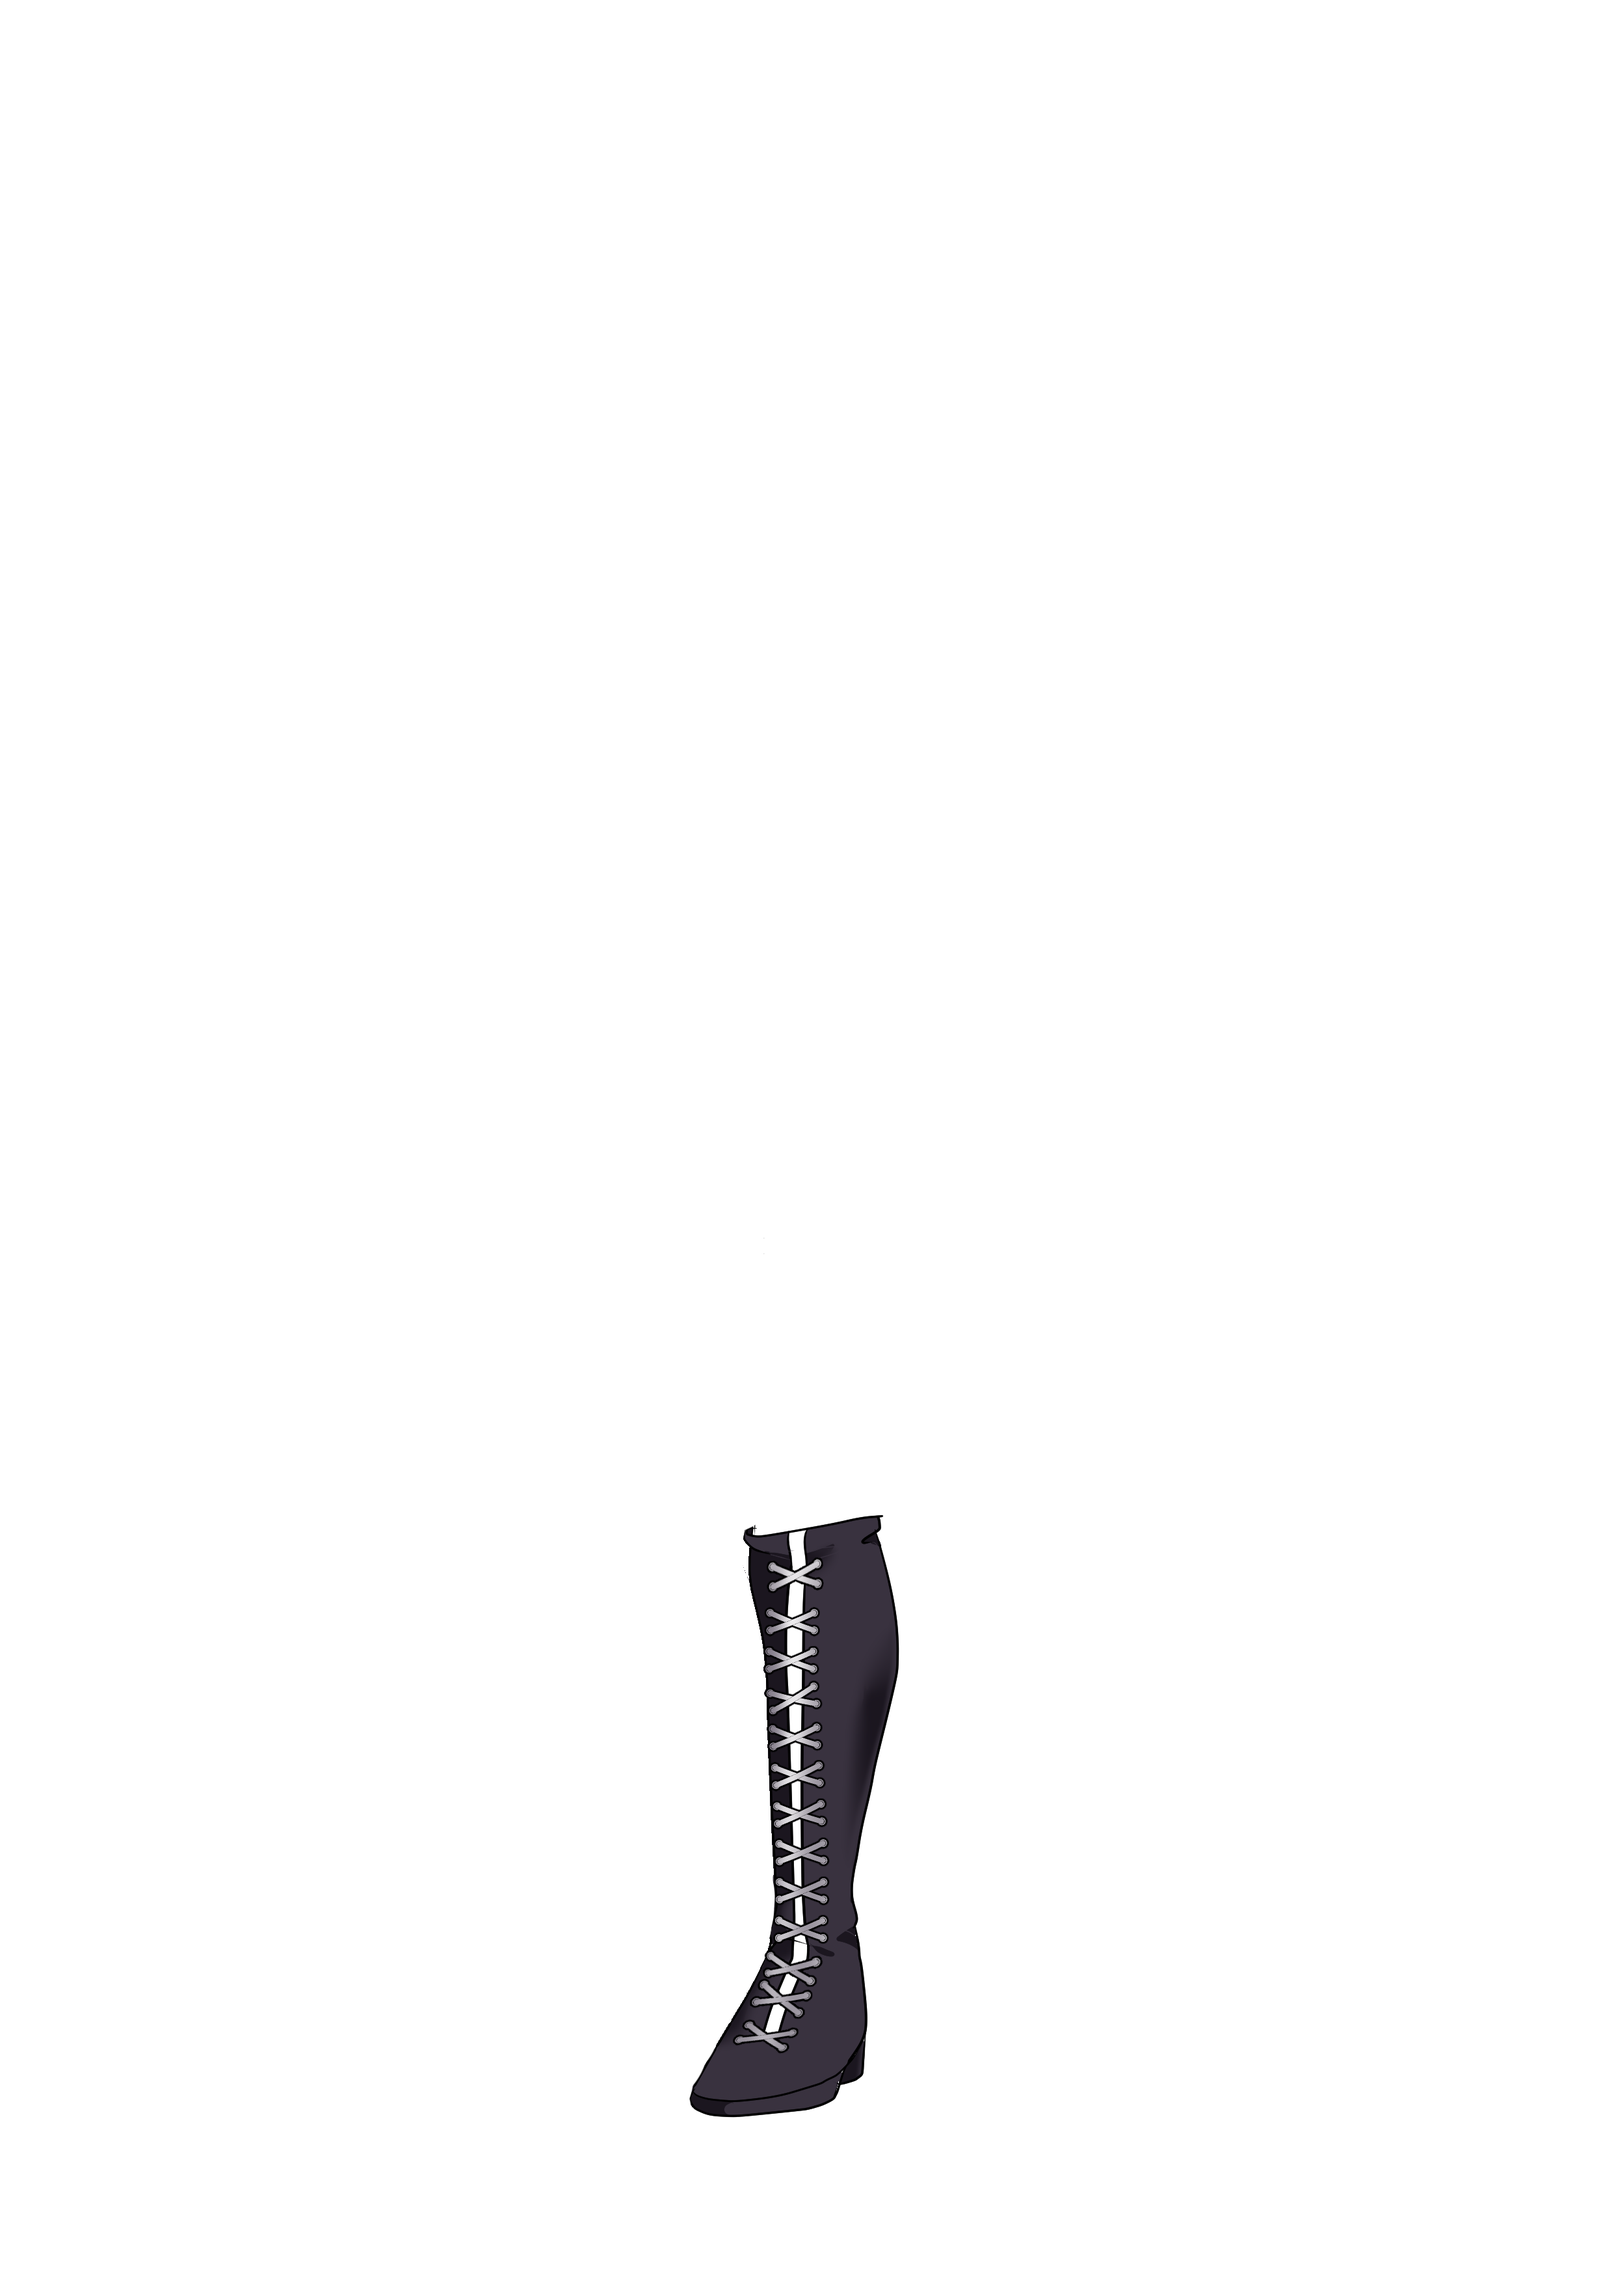
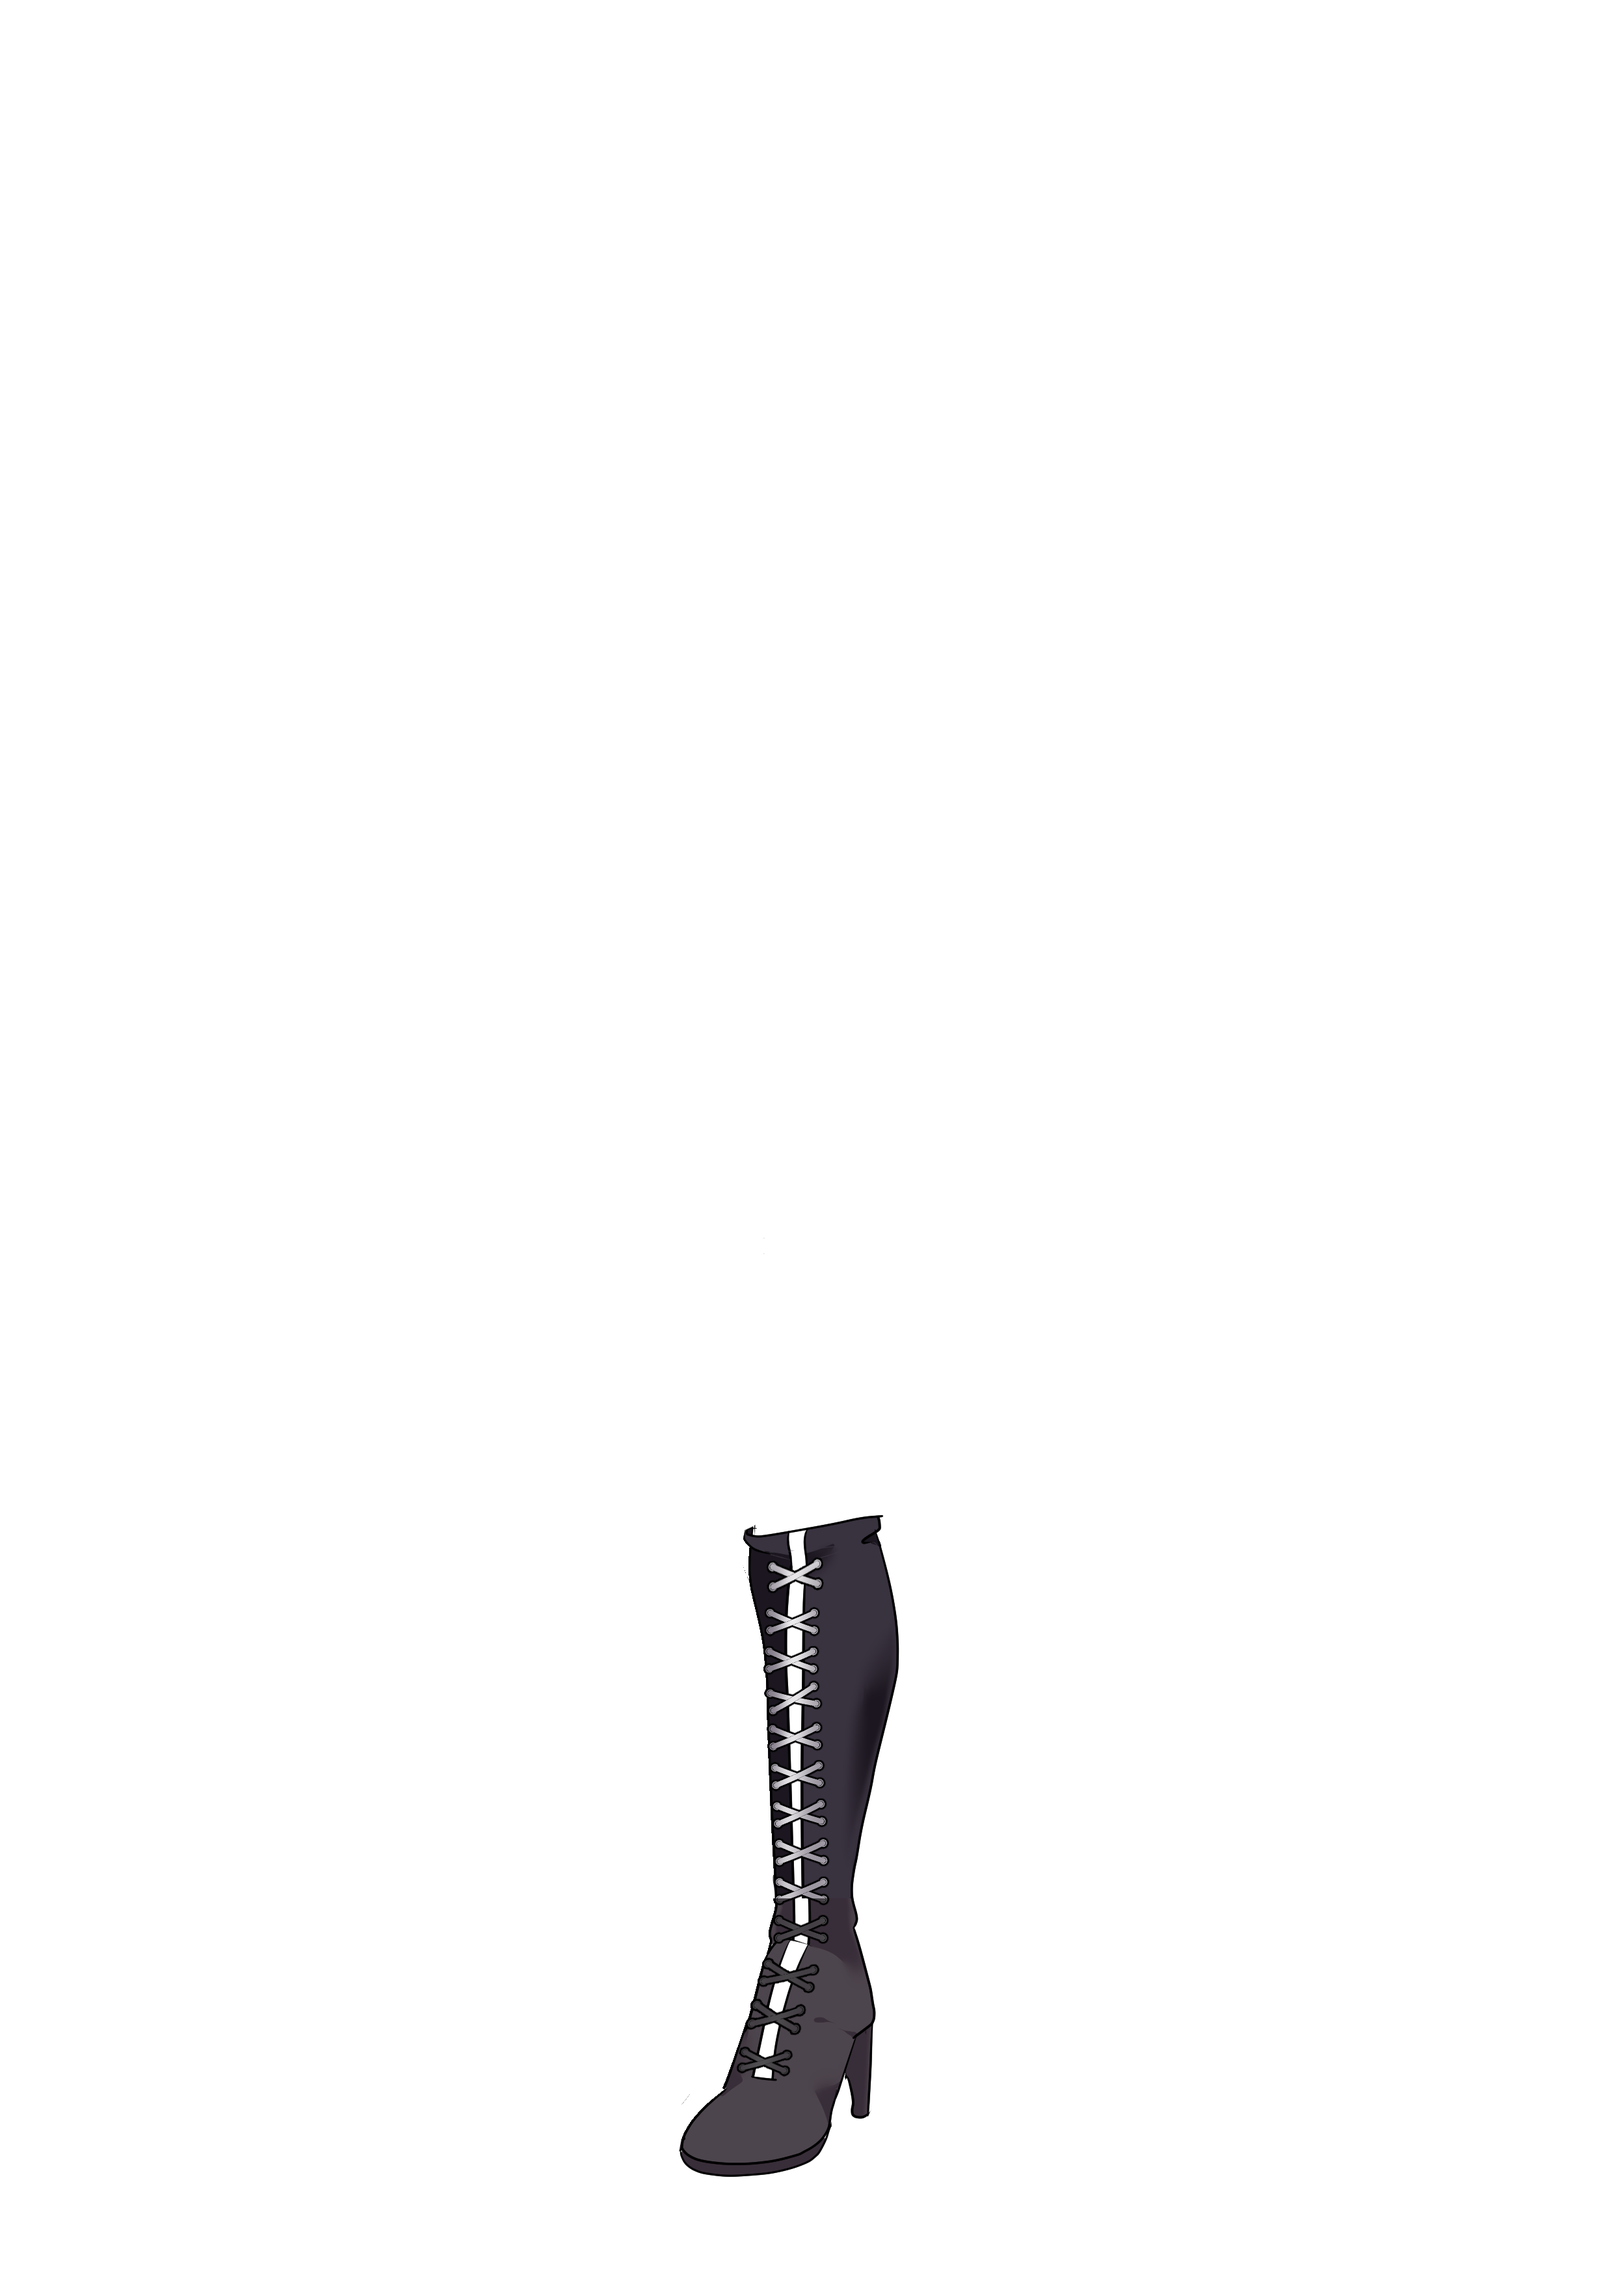
Data

Changed region(s): [[0.4036, 0.8389, 0.5589, 0.9632]]

diff --git a/Data/ModelList_Harness.ts b/Data/ModelList_Harness.ts
@@ -114,3 +114,107 @@ AddModel({
 		...GetModelLayers("HarnessStrap"),
 	])
 });
+
+
+
+AddModel({
+	Name: "FutureHarnessChest",
+	Folder: "FutureHarness",
+	TopLevel: false,
+	Parent: "FutureHarness",
+	Restraint: true,
+	Categories: ["Restraints", "Harness", "Leather"],
+	Layers: ToLayerMap([
+		{ Name: "StrapsChest", Layer: "BindChest", Pri: 60,
+			Invariant: true,
+			InheritColor: "Straps",
+		},
+		{ Name: "DisplayChest", Layer: "BindChest", Pri: 60.2,
+			Invariant: true,
+			InheritColor: "Display",
+			TieToLayer: "StrapsChest",
+			NoOverride: true,
+		},
+		{ Name: "MetalChest", Layer: "BindChest", Pri: 60.1,
+			Invariant: true,
+			InheritColor: "Metal",
+			TieToLayer: "StrapsChest",
+			NoOverride: true,
+		},
+	])
+});
+
+AddModel({
+	Name: "FutureHarnessMid",
+	Parent: "FutureHarness",
+	TopLevel: false,
+	Folder: "FutureHarness",
+	Restraint: true,
+	Categories: ["Restraints", "Harness", "Metal"],
+	Layers: ToLayerMap([
+		{ Name: "StrapsMid", Layer: "HarnessMid", Pri: 60,
+			Invariant: true,
+			InheritColor: "Straps",
+		},
+		{ Name: "DisplayMid", Layer: "HarnessMid", Pri: 60.2,
+			Invariant: true,
+			InheritColor: "Display",
+			TieToLayer: "StrapsMid",
+			NoOverride: true,
+		},
+		{ Name: "MetalMid", Layer: "HarnessMid", Pri: 60.1,
+			Invariant: true,
+			InheritColor: "Metal",
+			TieToLayer: "StrapsMid",
+			NoOverride: true,
+		},
+	])
+});
+
+AddModel({
+	Name: "FutureHarnessLower",
+	Parent: "FutureHarness",
+	TopLevel: false,
+	Folder: "FutureHarness",
+	Restraint: true,
+	Categories: ["Restraints", "Harness", "Metal"],
+	Layers: ToLayerMap([
+		{ Name: "StrapsLower", Layer: "HarnessMid", Pri: 59,
+		SwapLayerPose: {Kneel: "HarnessLower", KneelClosed: "HarnessLower"},
+			Invariant: true,
+			InheritColor: "Straps",
+		},
+		{ Name: "DisplayLower", Layer: "HarnessMid", Pri: 59.2,
+		SwapLayerPose: {Kneel: "HarnessLower", KneelClosed: "HarnessLower"},
+			Invariant: true,
+			InheritColor: "Display",
+			TieToLayer: "StrapsMid",
+			NoOverride: true,
+		},
+		{ Name: "MetalLower", Layer: "HarnessMid", Pri: 59.1,
+		SwapLayerPose: {Kneel: "HarnessLower", KneelClosed: "HarnessLower"},
+			Invariant: true,
+			InheritColor: "Metal",
+			TieToLayer: "StrapsMid",
+			NoOverride: true,
+		},
+	])
+});
+
+
+
+
+AddModel({
+	Name: "FutureHarness",
+	Folder: "FutureHarness",
+	TopLevel: true,
+	Parent: "FutureHarness",
+	Restraint: true,
+	Categories: ["Restraints", "Harness", "Metal"],
+	AddPose: ["CrotchStrap"],
+	Layers: ToLayerMap([
+		...GetModelLayers("FutureHarnessLower"),
+		...GetModelLayers("FutureHarnessMid"),
+		...GetModelLayers("FutureHarnessChest"),
+	])
+});

diff --git a/Data/ModelList.ts b/Data/ModelList.ts
@@ -121,7 +121,7 @@ AddModel({
 	Name: "Labcoat",
 	Folder: "Labcoat",
 	TopLevel: true,
-	Categories: ["Tops"],
+	Categories: ["Tops", "Accessories"],
 	Layers: ToLayerMap([
 		// Duplicate yoked is to override Closed override
 		{ Name: "Shoulders", Layer: "Shoulders", Pri: 10,
@@ -152,6 +152,34 @@ AddModel({
 			Poses: ToMap(["Hogtie", "Kneel", "KneelClosed", "Yoked", "Spread", "Closed"]),
 			GlobalDefaultOverride: ToMap(["Hogtie"]),
 			MorphPoses: {Closed: "Spread"},
+		},
+	])
+});
+
+AddModel({
+	Name: "Cape",
+	Folder: "Cape",
+	TopLevel: true,
+	Categories: ["Accessories"],
+	Layers: ToLayerMap([
+		// Duplicate yoked is to override Closed override
+		{ Name: "Shoulders", Layer: "Shoulders", Pri: 10,
+			Poses: ToMap(["Yoked", "Up", "Spread", "Closed", "Kneel", "KneelClosed"]),
+			InheritColor: "Front",
+			MorphPoses: {Yoked: "Yoked", Closed: "Spread"},
+		},
+		{ Name: "ShouldersHogtie", Layer: "Shoulders", Pri: 10,
+			Poses: ToMapSubtract([...ARMPOSES, "Hogtie"], ["Wristtie", "Yoked", "Up"]),
+			GlobalDefaultOverride: ToMap(["Hogtie"]),
+			HidePoses: ToMap(["Spread", "Closed", "Yoked", "Up"]),
+			InheritColor: "Front",
+			MorphPoses: {Boxtie: "Free", Free: "Free", Hogtie: ""},
+		},
+		{ Name: "Cape", Layer: "Cape", Pri: 0,
+			Poses: ToMap(["Hogtie", "Kneel", "KneelClosed", "Yoked", "Spread", "Closed"]),
+			GlobalDefaultOverride: ToMap(["Hogtie"]),
+			MorphPoses: {Closed: "Spread"},
+			InheritColor: "Back",
 		},
 	])
 });

diff --git a/Data/ModelListFace.ts b/Data/ModelListFace.ts
@@ -41,6 +41,42 @@ AddModel({
 });
 
 AddModel({
+	Name: "HumanEyes",
+	Folder: "FaceKoi",
+	TopLevel: true,
+	Protected: true,
+	Group: "Eyes",
+	Categories: ["Eyes","Face"],
+	Layers: ToLayerMap([
+		{ Name: "HumanEyes", Layer: "Eyes", Pri: 0,
+			Sprite: "", // Because pose is called EyesNeutral lol
+			OffsetX: 942,
+			OffsetY: 200,
+			Poses: ToMap(EYEPOSES),
+		},
+		{ Name: "HumanEyes2", Layer: "Eyes", Pri: 0,
+			Sprite: "", // Because pose is called EyesNeutral lol
+			OffsetX: 942,
+			OffsetY: 200,
+			Poses: ToMap(EYE2POSES),
+		},
+		{ Name: "Whites", Layer: "Eyes", Pri: -1,
+			OffsetX: 942,
+			OffsetY: 200,
+			NoColorize: true,
+			Poses: ToMap(EYEPOSES),
+		},
+		{ Name: "Whites2", Layer: "Eyes", Pri: -1,
+			Sprite: "Whites",
+			OffsetX: 942,
+			OffsetY: 200,
+			NoColorize: true,
+			Poses: ToMap(EYE2POSES),
+		},
+	])
+});
+
+AddModel({
 	Name: "KoiBrows",
 	Folder: "FaceKoi",
 	TopLevel: true,

diff --git a/Data/ModelList_Heels.ts b/Data/ModelList_Heels.ts
@@ -94,6 +94,11 @@ AddModel({
 			DisplacementSprite: "Heels",
 			DisplaceAmount: 50,
 			DisplaceLayers: ToMap(["Heels"]),
+			EraseInvariant: true,
+			EraseMorph: {Spread: "Spread"},
+			EraseSprite: "HeelsErase",
+			EraseAmount: 100,
+			EraseLayers: ToMap(["Heels"]),
 		},
 		{ Name: "LeatherRight", Layer: "ShoeRight", Pri: 30,
 			InheritColor: "Shoe",
